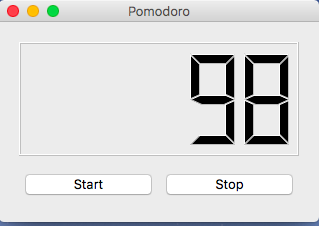
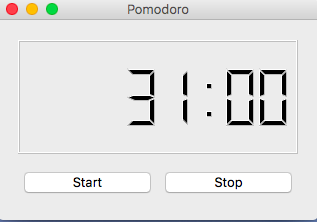
Added timer in minutes

diff --git a/main.py b/main.py
@@ -1,6 +1,6 @@
 from PyQt5.QtWidgets import QApplication, QWidget, QPushButton, QHBoxLayout
 from PyQt5.QtWidgets import QLCDNumber, QVBoxLayout
-from PyQt5.QtCore import pyqtSlot, QTimer
+from PyQt5.QtCore import pyqtSlot, QTimer, QTime
 import sys
 
 
@@ -14,7 +14,10 @@ class App(QWidget):
         # set the window co-ords
         self.start = 10
         self.ht, self.wt = 200, 320
-        self.number = 100
+        self.number = 31*60
+        self.hours = 00
+        self.minutes = 31
+        self.seconds = 00
 
         # Create Timer
         self.timer = QTimer()
@@ -27,6 +30,7 @@ class App(QWidget):
 
         # Create a lcd timer
         self.num = QLCDNumber()
+        self.num.setNumDigits(8)
 
         # Create a main vertial layout
         self.Vlayout = QVBoxLayout()
@@ -70,13 +74,15 @@ class App(QWidget):
         """
         Update the timer on the LCDdisplay
         """
-        self.number -= 1
-        self.num.display(self.number)
+        self.num.display(str(self.minutes) + ":" + str(self.seconds).zfill(2))
         if(self.number != 0):
             self.timer.singleShot(1000, self.updateLCD)
 
     @pyqtSlot()
     def _buttonClicked(self):
+        """
+        When Button is clicked Start the countDown
+        """
         self.timer.singleShot(1000, self.updateLCD)
 
 
